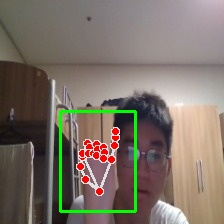
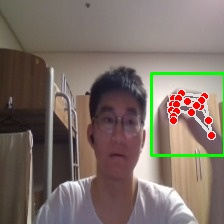
change the position of the prediction for magic touch

diff --git a/static/css/magic_touch.css b/static/css/magic_touch.css
@@ -215,24 +215,33 @@ body {
     transform: scaleX(-1); 
 }
 
-.prediction-overlay {
+/* Live Prediction Badge */
+.prediction-badge {
     position: absolute;
-    bottom: 8px;
+    bottom: 24px;
     left: 50%;
     transform: translateX(-50%);
-    background: rgba(45, 45, 45, 0.85);
-    color: var(--white);
-    padding: 4px 16px;
-    border-radius: 12px;
+    background: var(--white);
+    color: var(--neutral-dark);
+    padding: 10px 32px;
+    border-radius: 30px;
     font-family: 'Poppins', sans-serif;
-    font-size: 1.2rem;
-    font-weight: 600;
-    transition: background 0.3s ease;
+    font-size: 1.5rem;
+    font-weight: 700;
+    border: 3px solid var(--border);
+    box-shadow: 0 4px 12px var(--card-shadow);
+    z-index: 20;
+    transition: all 0.2s ease;
+    text-align: center;
+    min-width: 120px;
 }
 
-.prediction-overlay.confident {
+.prediction-badge.confident {
     background: var(--accent);
     color: var(--neutral-dark);
+    border-color: var(--accent);
+    box-shadow: 0 6px 16px rgba(166, 226, 46, 0.4);
+    transform: translateX(-50%) scale(1.05); 
 }
 
 /* Enemies */

diff --git a/templates/magic_touch_game.html b/templates/magic_touch_game.html
@@ -60,8 +60,10 @@
 
             <div class="webcam-container">
                 <video id="webcam" autoplay playsinline muted></video>
-                <div class="prediction-overlay" id="current-prediction">-</div>
             </div>
+            
+            <div class="prediction-badge" id="current-prediction">-</div>
+            
             <canvas id="canvas" width="224" height="224" style="display:none;"></canvas>
 
         </div>
